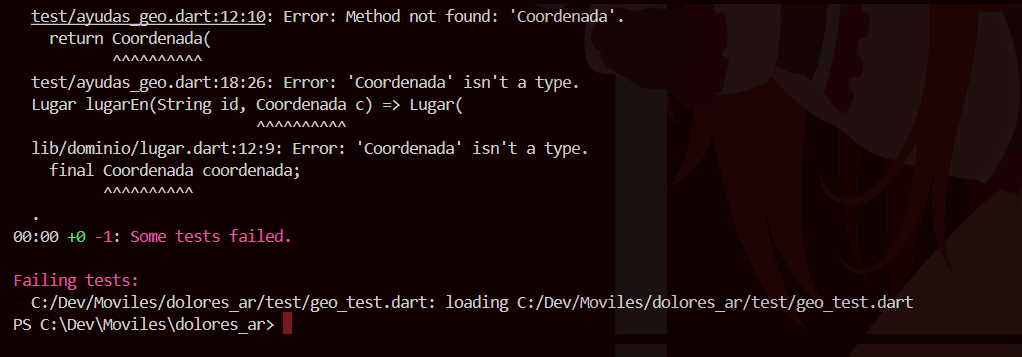
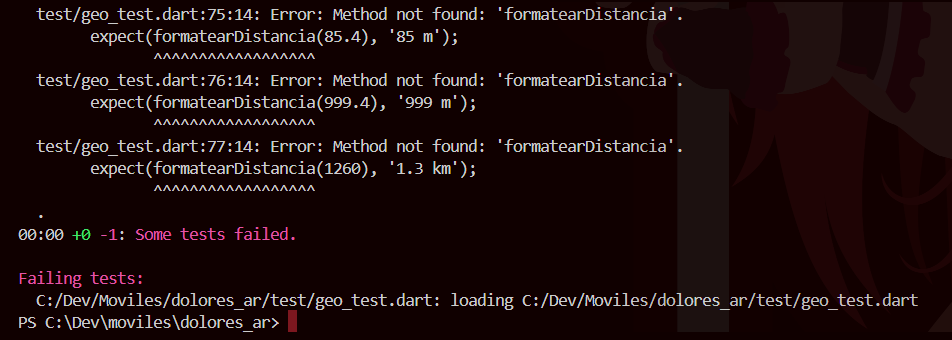
corregir readme

diff --git a/README.md b/README.md
@@ -1,21 +1,96 @@
 # Dolores AR
 
 App turística con realidad aumentada para visitar Dolores Hidalgo.
+
 Desarrollo Móvil Integral · UTNG · Prof. Anastacio Rodríguez García
 
 **Alumno:** Omar Mendez · **Grupo:** GTID232
 
-
 ## Evidencias por ronda
 
-| Ronda | Qué se prueba | Tests | ROJO | VERDE |
-|---|---|---|---|---|
-| 1 | Distancia (Haversine) | 4 | ![](evidencias/r1_rojo.png) | ![](evidencias/r1_verde.png) |
-| 2 | Rumbo y ángulos | 10 | ![](evidencias/r2_rojo.png) | ![](evidencias/r2_verde.png) |
-| 3 | Campo de visión y formato | 6 | ![](evidencias/r3_rojo.png) | ![](evidencias/r3_verde.png) |
-| 4 | Motor de realidad aumentada | 9 | ![](evidencias/r4_rojo.png) | ![](evidencias/r4_verde.png) |
-| 5 | Pasaporte turístico | 5 | ![](evidencias/r5_rojo.png) | ![](evidencias/r5_verde.png) |
-| 6 | ViewModel | 8 | ![](evidencias/r6_rojo.png) | ![](evidencias/r6_verde.png) |
+### Ronda 1. Distancia (Haversine)
+
+**Tests:** 4
+
+**ROJO**
+
+![Ronda 1 - ROJO](evidencias/r1_rojo.png)
+
+**VERDE**
+
+![Ronda 1 - VERDE](evidencias/r1_verde.png)
+
+---
+
+### Ronda 2. Rumbo y ángulos
+
+**Tests:** 10
+
+**ROJO**
+
+![Ronda 2 - ROJO](evidencias/r2_rojo.png)
+
+**VERDE**
+
+![Ronda 2 - VERDE](evidencias/r2_verde.png)
+
+---
+
+### Ronda 3. Campo de visión y formato
+
+**Tests:** 6
+
+**ROJO**
+
+![Ronda 3 - ROJO](evidencias/r3_rojo.png)
+
+**VERDE**
+
+![Ronda 3 - VERDE](evidencias/r3_verde.png)
+
+---
+
+### Ronda 4. Motor de realidad aumentada
+
+**Tests:** 9
+
+**ROJO**
+
+![Ronda 4 - ROJO](evidencias/r4_rojo.png)
+
+**VERDE**
+
+![Ronda 4 - VERDE](evidencias/r4_verde.png)
+
+---
+
+### Ronda 5. Pasaporte turístico
+
+**Tests:** 5
+
+**ROJO**
+
+![Ronda 5 - ROJO](evidencias/r5_rojo.png)
+
+**VERDE**
+
+![Ronda 5 - VERDE](evidencias/r5_verde.png)
+
+---
+
+### Ronda 6. ViewModel
+
+**Tests:** 8
+
+**ROJO**
+
+![Ronda 6 - ROJO](evidencias/r6_rojo.png)
+
+**VERDE**
+
+![Ronda 6 - VERDE](evidencias/r6_verde.png)
+
+---
 
 ## Ejecución completa
 
@@ -25,7 +100,6 @@ Los 42 tests juntos:
 
 ## Interfaz
 
-Pantalla de inicio: acceso a la exploración con GPS real, al modo demo, al
-modelo 3D y la lista de lugares del recorrido.
+Pantalla de inicio: acceso a la exploración con GPS real, al modo demo, al modelo 3D y a la lista de lugares del recorrido.
 
 ![Pantalla de inicio](evidencias/inicioAr.png)
